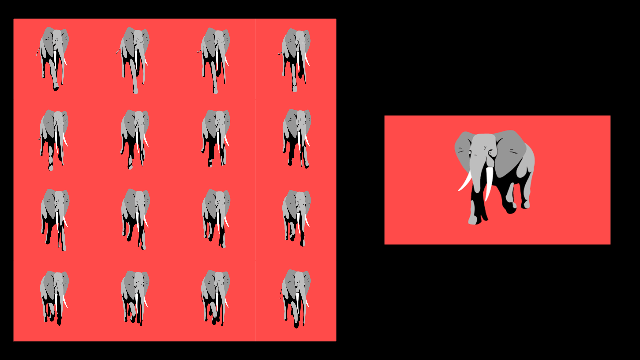
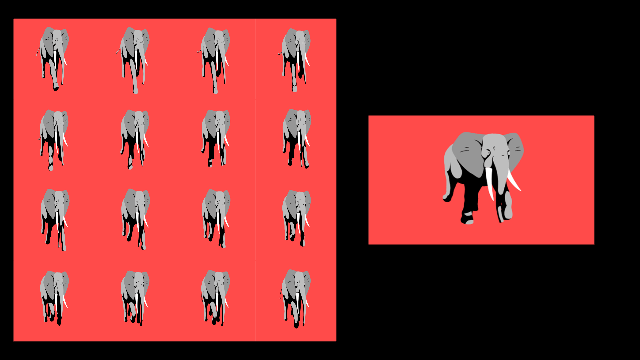
dev changes / imgsequence

Changed region(s): [[0.6875, 0.3667, 0.8438, 0.6417], [0.9062, 0.3056, 0.9688, 0.7028], [0.5625, 0.3056, 0.625, 0.7028]]

diff --git a/src/ops/base/Ops.Gl.ImageSequenceAnim_v2/Ops.Gl.ImageSequenceAnim_v2.js b/src/ops/base/Ops.Gl.ImageSequenceAnim_v2/Ops.Gl.ImageSequenceAnim_v2.js
@@ -10,6 +10,7 @@ const
     texRepeatY = op.outNumber("Repeat Y"),
     texU = op.outNumber("Offset X"),
     texV = op.outNumber("Offset Y"),
+    flipY = op.inBool("Flip Y", false),
 
     outFrame = op.outNumber("Frame"),
     outProgress = op.outNumber("Progress");
@@ -24,6 +25,7 @@ const posY = 0;
 const lastSwitch = 0;
 const frame = 0;
 setRepeat();
+inTime.onChange = update;
 
 function setRepeat()
 {
@@ -31,8 +33,6 @@ function setRepeat()
     texRepeatX.set(1 / numX.get());
     update();
 }
-
-inTime.onChange = update;
 
 function update()
 {
@@ -49,6 +49,9 @@ function update()
     outFrame.set(frame);
     outProgress.set((frame) / (numFrames - 1));
 
+    let y = texRepeatY.get() * row;
+    if (flipY.get())y = 1.0 - y;
+
     texU.set(texRepeatX.get() * col);
-    texV.set(texRepeatY.get() * row);
+    texV.set(y);
 }

diff --git a/src/ops/base/Ops.Cables.AssetPathURL/Ops.Cables.AssetPathURL.js b/src/ops/base/Ops.Cables.AssetPathURL/Ops.Cables.AssetPathURL.js
@@ -16,12 +16,7 @@ function update()
         return;
     }
 
-    let patchId = null;
-    if (op.storage && op.storage.blueprint && op.storage.blueprint.patchId)
-    {
-        patchId = op.storage.blueprint.patchId;
-    }
-    filename = op.patch.getAssetPath(patchId) + filename;
+    filename = op.patch.getAssetPath() + filename;
     let url = op.patch.getFilePath(filename);
     path.set(url);
 }

diff --git a/src/ops/base/Ops.Gl.Meshes.TextMesh_v2/Ops.Gl.Meshes.TextMesh_v2.js b/src/ops/base/Ops.Gl.Meshes.TextMesh_v2/Ops.Gl.Meshes.TextMesh_v2.js
@@ -25,6 +25,8 @@ op.toWorkPortsNeedToBeLinked(render);
 
 op.setPortGroup("Masking", [inMulTex, inMulTexMask]);
 
+textureOut.setUiAttribs({ "hidePort": true });
+
 const textureSize = 1024;
 let fontLoaded = false;
 let needUpdate = true;
